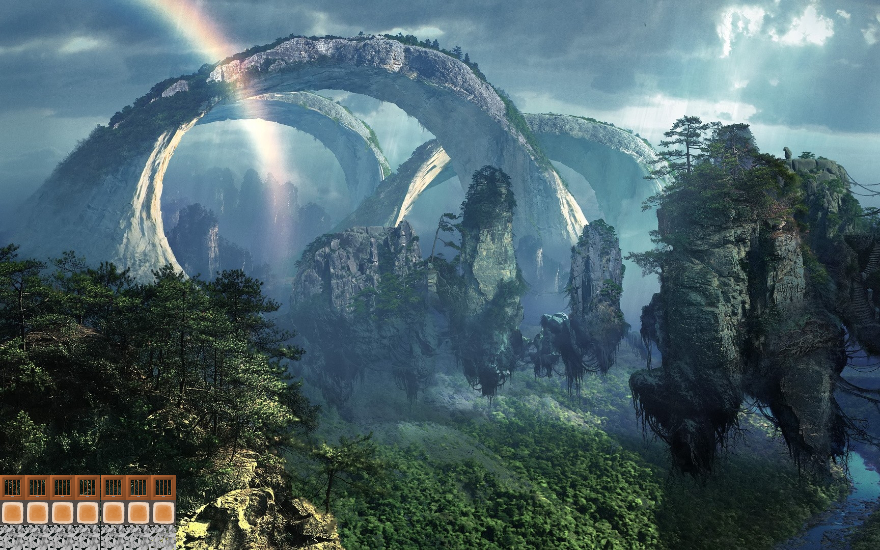
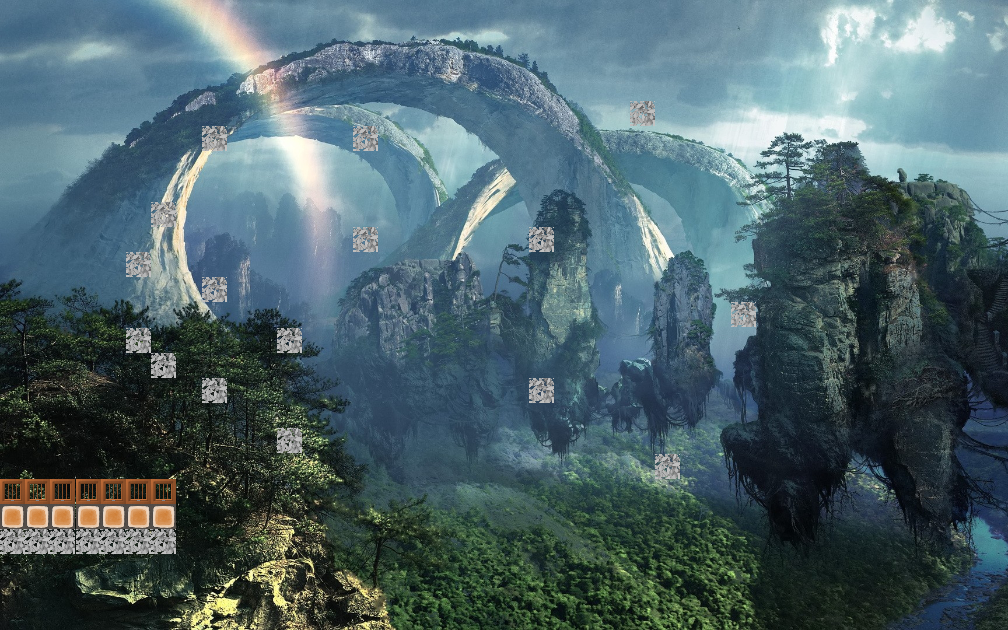
modifying gameplay editor

diff --git a/src/main/java/com.yeet.editor/src/editor/interactive/GameModeEditor.java b/src/main/java/com.yeet.editor/src/editor/interactive/GameModeEditor.java
@@ -3,13 +3,16 @@ package editor.interactive;
 
 import editor.EditorManager;
 import javafx.scene.Group;
+import javafx.scene.control.Button;
 import javafx.scene.image.Image;
 import javafx.scene.image.ImageView;
 import javafx.scene.layout.VBox;
 import javafx.scene.paint.Color;
+import javafx.stage.FileChooser;
 import renderer.external.Structures.SwitchButton;
 import renderer.external.Structures.TextBox;
 
+import java.awt.*;
 import java.io.File;
 import java.util.Arrays;
 import java.util.List;
@@ -22,20 +25,28 @@ import java.util.function.Consumer;
 public class GameModeEditor extends EditorSuper {
     private static String[] DEFAULT_GAME_MODES = new String[]{"SSBB","Street Fighter"};
     private static final String DEFAULT_SPLASH = "/Users/orgil/cs308/voogasalad_yeet/src/main/java/com.yeet.main/resources/lucinaglasses.png";
-    //private Double Gravity
     private Image splashScreen;
     private File splashFile;
+    private ImageView splashView;
 
     public GameModeEditor(Group root, EditorManager em) {
         super(root,em);
+        Button pickSplash = myRS.makeStringButton("pick splash",Color.BLACK,true,Color.WHITE,20.0,60.0,100.0,150.0,50.0);
+        pickSplash.setOnMouseClicked(e -> getSplashFile());
 
-        //ImageView splash = new Image(new File())
-        VBox vb1 = makeVBox1();
-        vb1.setLayoutX(100.0);
-        vb1.setLayoutY(100.0);
-        //List of values: min
+        splashView = new ImageView();
 
-        root.getChildren().addAll(vb1);
+        root.getChildren().addAll(pickSplash,splashView);
+    }
+
+    private void getSplashFile(){
+        FileChooser fileChooser = myRS.makeFileChooser("image");
+        splashFile = fileChooser.showOpenDialog(getWindow());
+        splashScreen = new Image(splashFile.toURI().toString());
+        splashView.setImage(splashScreen);
+        splashView.setPreserveRatio(true);
+        splashView.setFitHeight(200.0);
+
     }
 
     public VBox makeVBox1(){

diff --git a/src/main/java/com.yeet.renderer/src/renderer/external/Structures/ScrollItem.java b/src/main/java/com.yeet.renderer/src/renderer/external/Structures/ScrollItem.java
@@ -17,41 +17,47 @@ public class ScrollItem implements Scrollable {
     private ToggleButton button;
     private ToggleButton imageButton;
     private Image image;
-    private ImageView imageView;
+    private ImageView imageView1;
+    private ImageView imageView2;
     private RenderSystem rs;
 
 
     public ScrollItem(Image image, Text desc){
         rs = new RenderSystem();
         this.image = image;
-        this.imageView = new ImageView(image);
+        this.imageView1 = new ImageView(image);
+        this.imageView2 = new ImageView(image);
+        imageView1.setPreserveRatio(true);
+        imageView2.setPreserveRatio(true);
+        resize(200);
         initializeButton(desc);
         initializeImageButton();
     }
 
-
     public void initializeButton(Text desc){
-        imageView.setPreserveRatio(true);
-        imageView.setFitHeight(100);
-        button = new ToggleButton(desc.getText(),imageView);
+        button = new ToggleButton(desc.getText(),imageView1);
         button.setTextFill(Color.WHITE);
         button.wrapTextProperty().setValue(true);
         rs.applyStyleAndEffect(button);
     }
+
+    private void initializeImageButton(){
+        imageButton = new ToggleButton("",imageView2);
+        rs.applyStyleAndEffect(imageButton);
+    }
+
+
+    public void resize(int val){
+        imageView1.setFitHeight(val);
+        imageView2.setFitHeight(val);
+    }
+
 
     @Override
     public void setNodeGraphic(Node key, String text) {
 
     }
 
-    private void initializeImageButton(){
-        imageButton = new ToggleButton();
-        ImageView copy = new ImageView(image);
-        copy.setPreserveRatio(true);
-        copy.setFitHeight(100);
-        imageButton.setGraphic(copy);
-        rs.applyStyleAndEffect(imageButton);
-    }
 
 
 

diff --git a/src/main/java/com.yeet.editor/src/editor/interactive/MapEditor.java b/src/main/java/com.yeet.editor/src/editor/interactive/MapEditor.java
@@ -69,7 +69,7 @@ public class MapEditor extends EditorSuper {
         myBackgroundImage = DEFAULT_BACKGROUND_IMAGE;
         myBGMFileName = DEFAULT_BGM;
         try {
-            initializeLevel(880, 550, 330, 120,
+            initializeLevel(1008, 630, 260, 120,
                     this.getClass().getClassLoader().getResource(DEFAULT_BACKGROUND_IMAGE).toURI().toString());
         } catch (URISyntaxException e) {
             e.printStackTrace();
@@ -98,7 +98,7 @@ public class MapEditor extends EditorSuper {
 
     private void initializeScrollPane(){
         File paneFile = new File(myEM.getGameDirectoryString()+DEFAULT_IMAGE_DIR);
-        myScrollablePane = new ScrollablePaneNew(paneFile,15,120.0, 300, 600);
+        myScrollablePane = new ScrollablePaneNew(paneFile,15,120.0, 250, 600);
         for(Scrollable b: myScrollablePane.getItems()){
             b.getButton().setOnMouseClicked(e -> selectTileFromScroll(b.getImage(), b.getButton().getText()));
         }
@@ -131,9 +131,9 @@ public class MapEditor extends EditorSuper {
             MapSettings s = new MapSettings();
             s.setScene();
         });
-        myButtons.getChildren().addAll(saveFile,settings,resetGrid,addBG,chooseTile,input);
+        myButtons.getChildren().addAll(saveFile,chooseTile,settings,resetGrid,addBG,input);
         myButtons.setLayoutX(60.0);
-        myButtons.setLayoutY(50.0);
+        myButtons.setLayoutY(70.0);
     }
 
     /**

diff --git a/src/main/java/com.yeet.editor/src/editor/EditorManager.java b/src/main/java/com.yeet.editor/src/editor/EditorManager.java
@@ -32,6 +32,7 @@ public class EditorManager {
     private Scene homeScene;
     private File gameDirectory;
     private RenderSystem rs;
+    private EditorSuper mySettingsEditor;
 
     public EditorManager(Stage stage, Scene scene, File directory){
         myStage = stage;
@@ -43,6 +44,7 @@ public class EditorManager {
         rs = new RenderSystem();
 
         myScene = makeMyScene();
+        mySettingsEditor.createBack(myScene);
     }
 
     private Scene makeMyScene(){
@@ -62,6 +64,10 @@ public class EditorManager {
             nextEditor.setOnMouseClicked(e -> changeScene(myEditorHomes.get(pos)));
             root.getChildren().add(nextEditor);
         }
+        Button settings = rs.makeStringButton("Game Settings", Color.BLACK, true, Color.WHITE, 30.0, 800.0, 100.0 * 2, 350.0, 50.0);
+        mySettingsEditor = myEditors.get(myEditors.size()-1);
+        settings.setOnMouseClicked(e -> changeScene(mySettingsEditor));
+        root.getChildren().add(settings);
     }
 
     public void setEditorHomeScene(){
@@ -102,7 +108,7 @@ public class EditorManager {
     }
     private List<EditorHome> makeEditorHomes(){
         List<EditorHome> editors = new ArrayList<>();
-        Collections.addAll(editors,new MapHome(this), new CharacterHome(this), new GameModeHome(this));
+        Collections.addAll(editors,new MapHome(this), new CharacterHome(this));//;, new GameModeHome(this));
         return editors;
     }
 

diff --git a/src/main/java/com.yeet.editor/src/editor/interactive/EditorSuper.java b/src/main/java/com.yeet.editor/src/editor/interactive/EditorSuper.java
@@ -40,7 +40,7 @@ public abstract class EditorSuper extends Scene implements EditorScreen {
         Text t = createTitle();
         root.getChildren().add(t);
         isSaved = true;
-        saved = myRS.makeText("Saved", true, 20, Color.BLACK, 600.0, 700.0);
+        saved = myRS.makeText("Saved", true, 20, Color.BLACK, 200.0, 60.0);
     }
 
     /**

diff --git a/src/main/java/com.yeet.renderer/src/renderer/external/Structures/ScrollablePaneNew.java b/src/main/java/com.yeet.renderer/src/renderer/external/Structures/ScrollablePaneNew.java
@@ -182,4 +182,8 @@ public class ScrollablePaneNew extends Pane {
         }
         return itemList;
     }
+
+    public void setItemSize(int value){
+
+    }
 }
